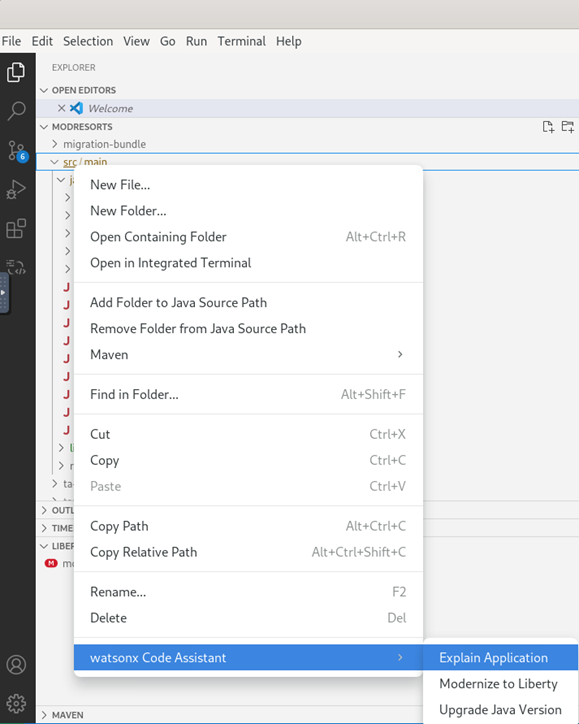
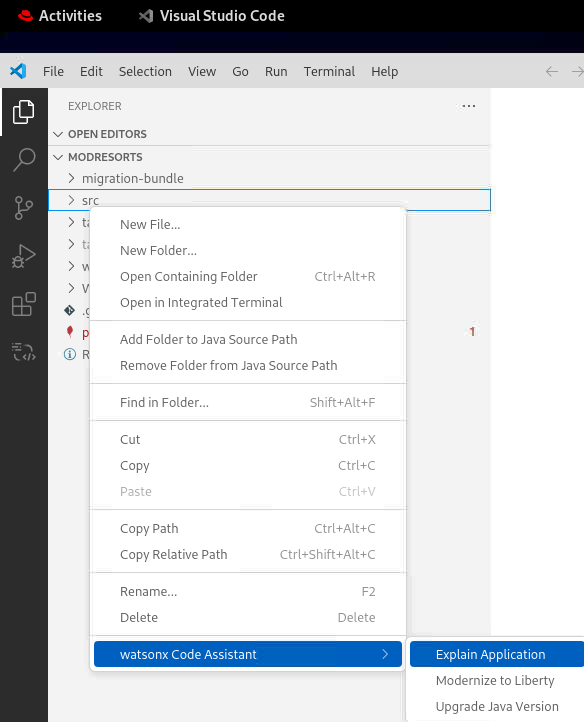
Updated

Changed region(s): [[0.0, 0.0, 1.0, 1.0], [0.5285, 0.3657, 0.6528, 0.3961], [0.8083, 0.2438, 0.8394, 0.3047]]

diff --git a/README.md b/README.md
@@ -486,7 +486,7 @@ This will include three parts:
     <kbd>![](./images/media/vscode_ProjectExplorer.png)</kbd>
 
 
-2. Right-click on **src** and select **watsonx Code Assistant > Explain Application**
+2. Click on **MODRESORTS** to expand the application project, then right-click on **src** and select **watsonx Code Assistant > Explain Application**
  
     <kbd>![](./images/media/WCA_menu-explainApplication.png)</kbd>
 
@@ -510,10 +510,10 @@ You will see something several messages
 
     <kbd>![](./images/media/WCA_explainApplication_CodeAnalysis3.png)</kbd>
 
-5. Click on Open explanation to see the results.
+5. Click on **Open explanation** to see the results.
  
     <kbd>![](./images/media/WCA_explainApplication_Result.png)</kbd>
-
+    After the executive summary, all the found services will be explained. Scroll down and you can see that you save the explanation as a markdown file. You do not need the explanation later, so you don't have to save it.
 
 #### Use the wizard inside the application code to explain a class:
 
